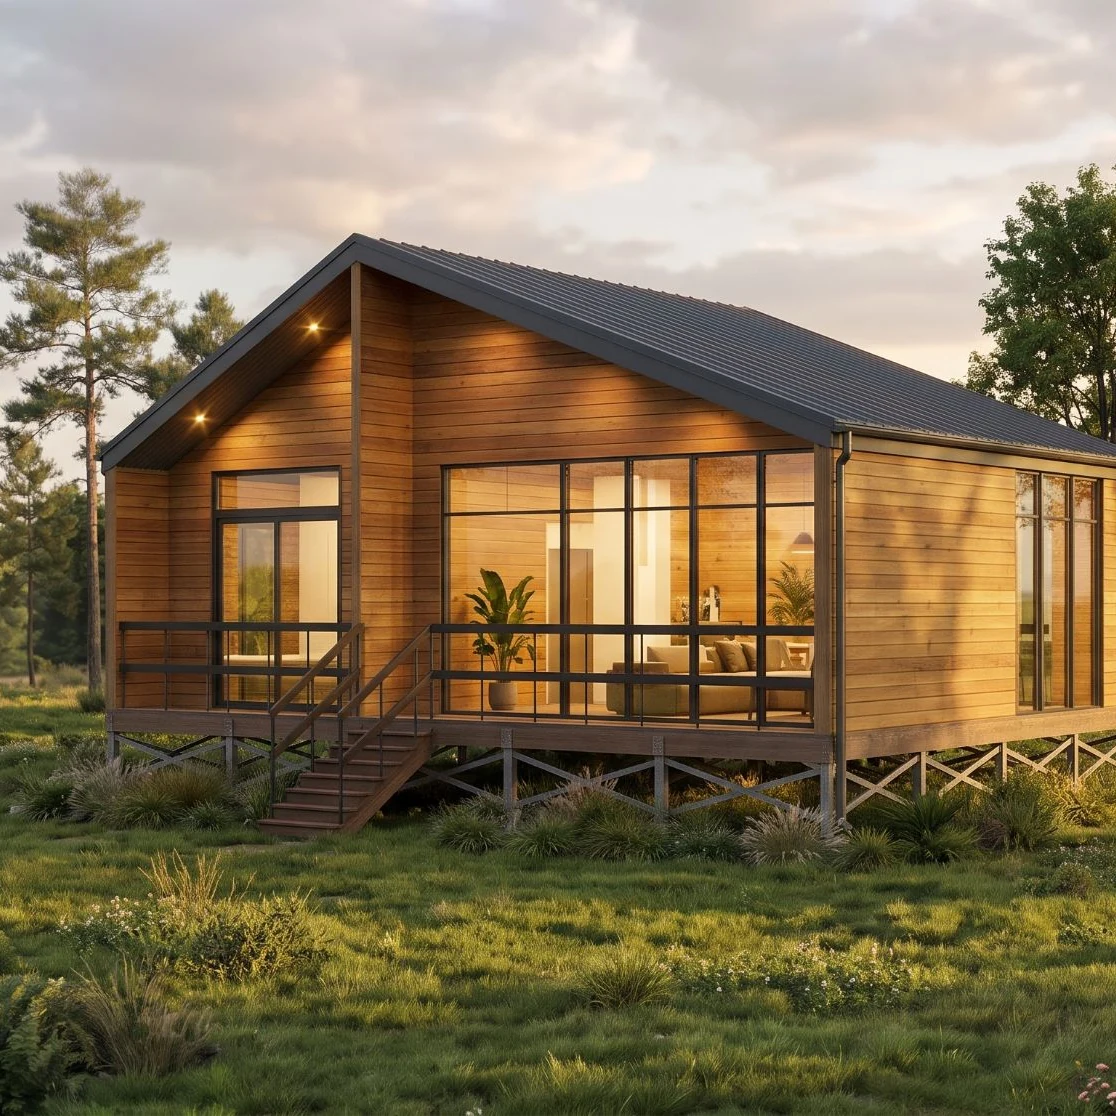
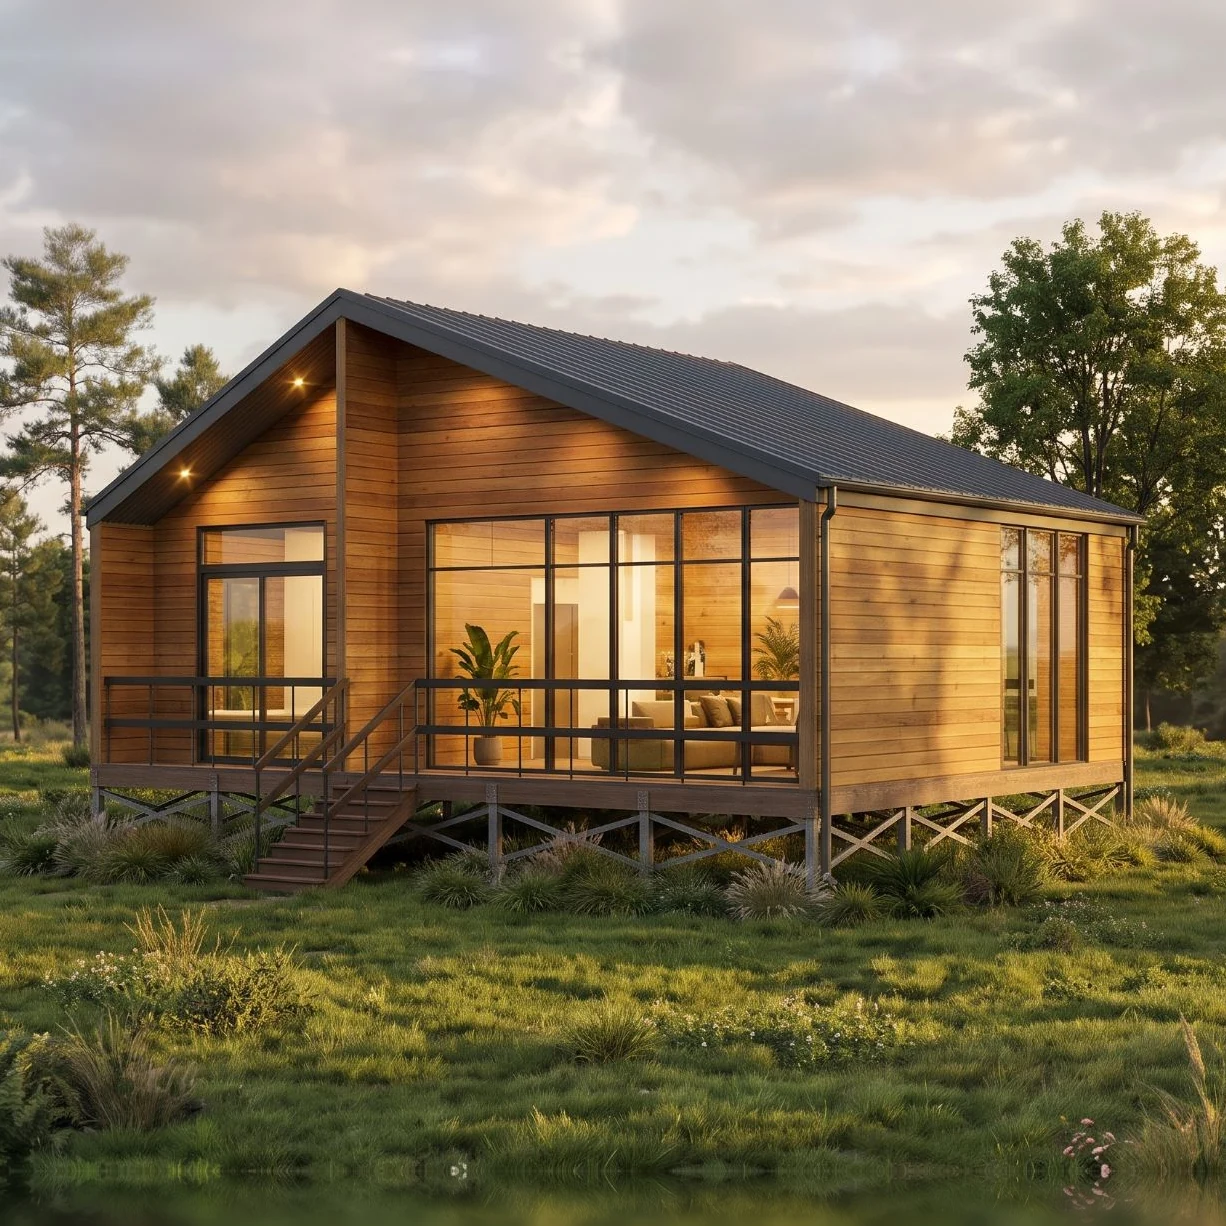
Vivonne Cabin cover: zoom out to show the whole cabin
The render is a little too short for a tall cover, so its sky and grass
are extended slightly at the top and bottom, letting the frame widen to
take in the whole cabin.

Claude-Session: https://claude.ai/code/session_01XrsNxmTzmpsovjqss1yHEC

diff --git a/README.md b/README.md
@@ -188,7 +188,7 @@ The covers use one render or drawing each. The Sting Rays render is still croppe
 
 ```
 sting-rays-render-hero.webp    (Sting Rays cover)
-vivonne-cabin-hero.webp        (Vivonne Cabin cover: the render of the gable cabin at sunset, cropped square around its gable end and glazing, 1116 × 1116, full bleed with the title in white: coverStyle "image")
+vivonne-cabin-hero.webp        (Vivonne Cabin cover: the render of the gable cabin at sunset, framed square around the whole cabin, 1226 × 1226; the render was a little too short for a tall cover, so its sky and grass are extended slightly at the top and bottom; full bleed with the title in white: coverStyle "image")
 super-slides-hero.webp         (Super Slides cover: the bone slide, 1600 × 2000)
 tangerine-hero.webp            (Tangerine cover: your cover frame, the three lights falling diagonally off the edges, 1400 × 1633)
 smith-residence-hero.webp      (Smith Residence cover: the render, cropped square around the entry porch, 887 × 887, full bleed with the title in white: coverStyle "image")
